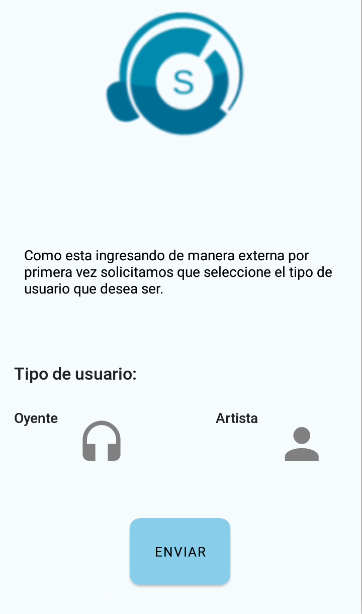
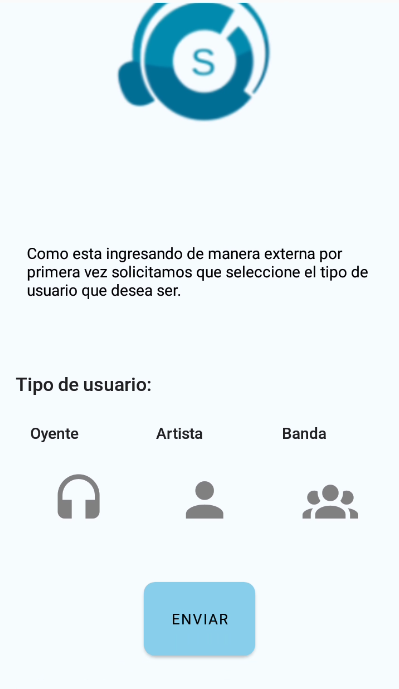
lines added to app manual

diff --git a/README.md b/README.md
@@ -6,30 +6,51 @@ El Usuario entra por primera vez a la aplicación, lo primero que se va a encont
 
 ![alt text](media/SignInScreen.png)
 
-Si Usuario no tiene una cuenta entonces primero necesita registrarse: oprime 'registrarse' e ingresa todos los datos solicitados por la aplicación:
+Si el Usuario no tiene una cuenta entonces primero necesita registrarse: oprime 'registrarse' e ingresa todos los datos solicitados por la aplicación. Un Usuario puede registrarse como 'Oyente', 'Artista' o como 'Banda':
 
 ![alt text](media/SignUpScreen1.png)
 ![alt text](media/SignUpScreen2.png)
 
-Luego de ingresar sus datos el usuario recibe un mensaje por Whatsapp donde se indica cual es su PIN de validación de usuario:
+Luego de ingresar sus datos el Usuario recibe un mensaje por Whatsapp donde se indica cual es su PIN de validación de Usuario:
 
 ![alt text](media/PINScreen.png)
 
-Si el Usuario se registró como 'Artista' entonces será redireccionado a la pantalla de iniciar sesión, si entra como 'Oyente' entonces se le solicitará una ubicación y que seleccione sus intereses musicales, una vez finalizado el registro del Usuario se podra entrar en la aplicación:
+Si el Usuario se registró como 'Artista' o como 'Banda' entonces entrara a la aplicación, si entra como 'Oyente' entonces se le solicitará una ubicación y que seleccione sus intereses musicales, una vez finalizado el registro del Usuario se podra entrar en la aplicación:
 
 ![alt text](media/RequestMusicalPreferencesScreen.png)
 
-Si el Usuario ya se registro de manera exitosa entonces puede ingresar a la aplicación con su mail y contraseña:
-
-![alt text](media/SignInScreen.png)
-
-Si el Usuario ingresa de manera externa por primera vez entonces debera seleccinar si desea entrar como 'Artista' o 'Oyente':
+Si el Usuario ingresa de manera externa por primera vez entonces debera seleccinar si desea entrar como 'Artista', 'Oyente' o 'Banda':
 
 ![alt text](media/RequestUserTypeToExternalUser.png)
 
 Si en algun momento el Usuario olvida su contraseña entonces puede seleccionar una nueva con la pantalla de '¿Olvido su Contraseña?'
 
 ![alt text](media/ForgotPasswordScreen.png)
+
+Una vez dentro de la aplicación el Usuario primero se va a encontrar en la pantalla de Inicio. En esta pantalla se pueden ver una versión resumida de 3 muestras como maximo de lo que es el contenido favorito del Usuario (canciones o albumes) si el Usuario quiere ver la lista de albumes o canciones favoritos completa entonces debe oprimir en "ver mas" en cada lista:
+
+![alt text](media/HomeScreen.png)
+
+Arriba a la izquierda se puede ver un menu para poder navegar por la aplicacion.
+
+![alt text](media/MenuScreen.png)
+
+Primero vamos a la pantalla de Perfil. Todos los perfiles tienen una foto de perfil (con una imagen por defecto si el Usuario no elige una) y el nombre del Usuario, ademas en la parte superior de la derecha van a haber 2 botones: uno para ir a 'Editar Perfil' (Icono de Usuario con lapicera) y otro para ir a 'Lista de Notificaciones' (Icono de campana). Luego cada perfil sera diferente segun el tipo de Usuario:
+
+    *)Si es 'Oyente' el perfil incluye una lista de los generos musicales que el Usuario marco como favoritos, ademas de una muestra de como maximo 3 elementos de la lista de artistas que el Usuario esta siguiendo y de las Playlist que el Usuario creo.
+
+![alt text](media/ProfileScreenListener1.png)
+![alt text](media/ProfileScreenListener2.png)
+
+    *) Si es un 'Artista' entonces va a tener un boton de subir contenido, asi como la cantidad de seguidores que el artista tiene y un cartel que indica si el artista esta verificado o no. Ademas arriba a la derecha se agrega el boton para ir a 'Verificar Artista' (Icono de Usuario con un tilde).
+
+![alt text](media/ProfileScreenArtist.png)
+
+    *) El perfil de una 'Banda' es exactamente igual al de un 'Artista'. La diferencia es que se agrega arriba a la derecha un boton para ir a 'Agregar Integrantes de la Banda', desde ahi se podra agregar a los integrantes de una banda. Ademas se podra ver una lista con los integrantes de la misma. Hay que aclarar que una banda no podra subir contenido si no tiene integrantes.
+
+![alt text](media/ProfileScreenBand.png)
+
+    
 
 ## Guía de usuario del backoffice
 
